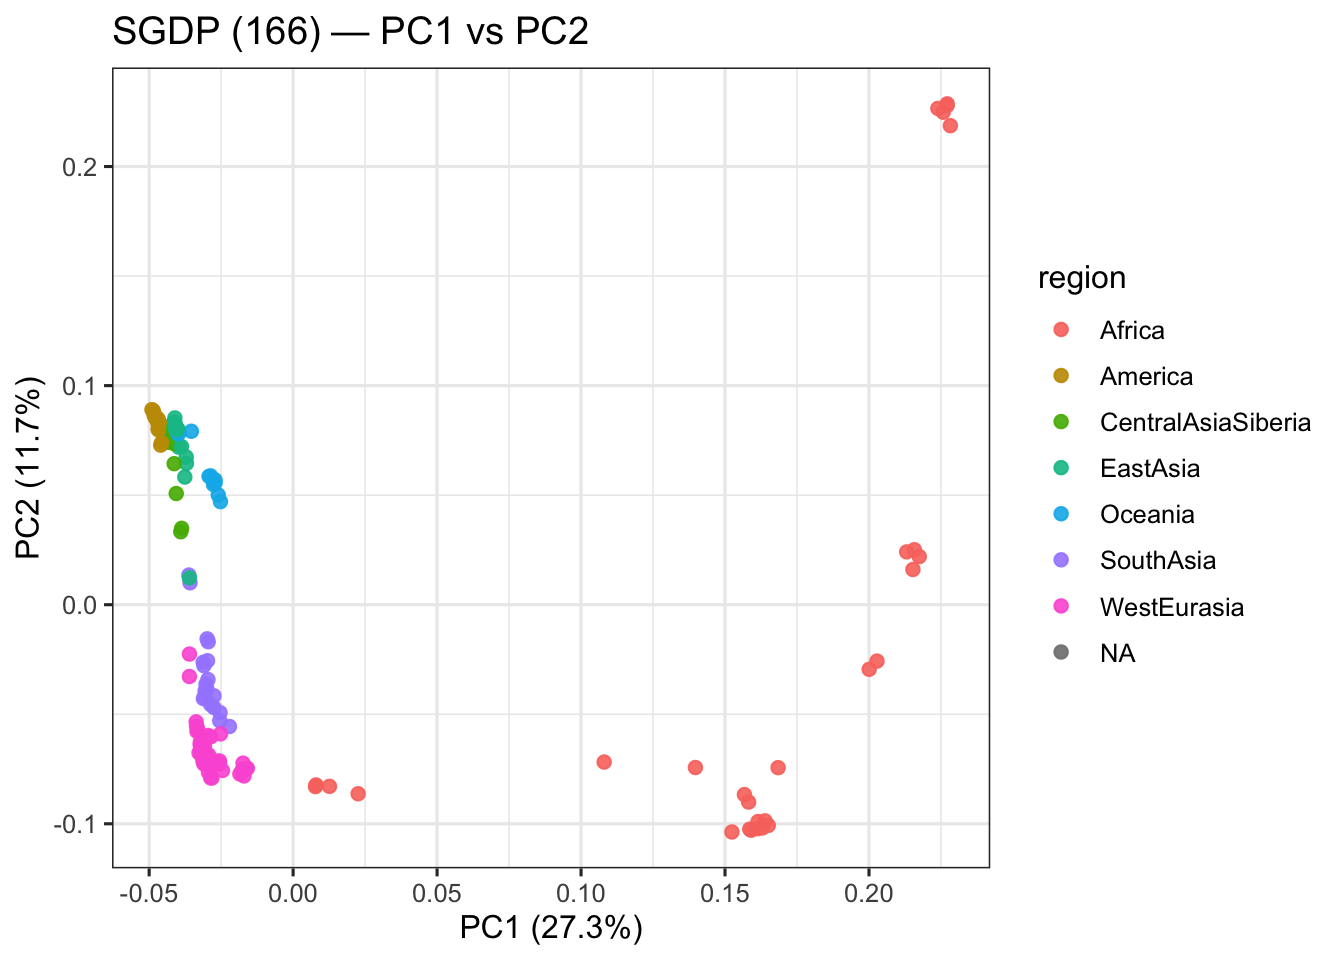
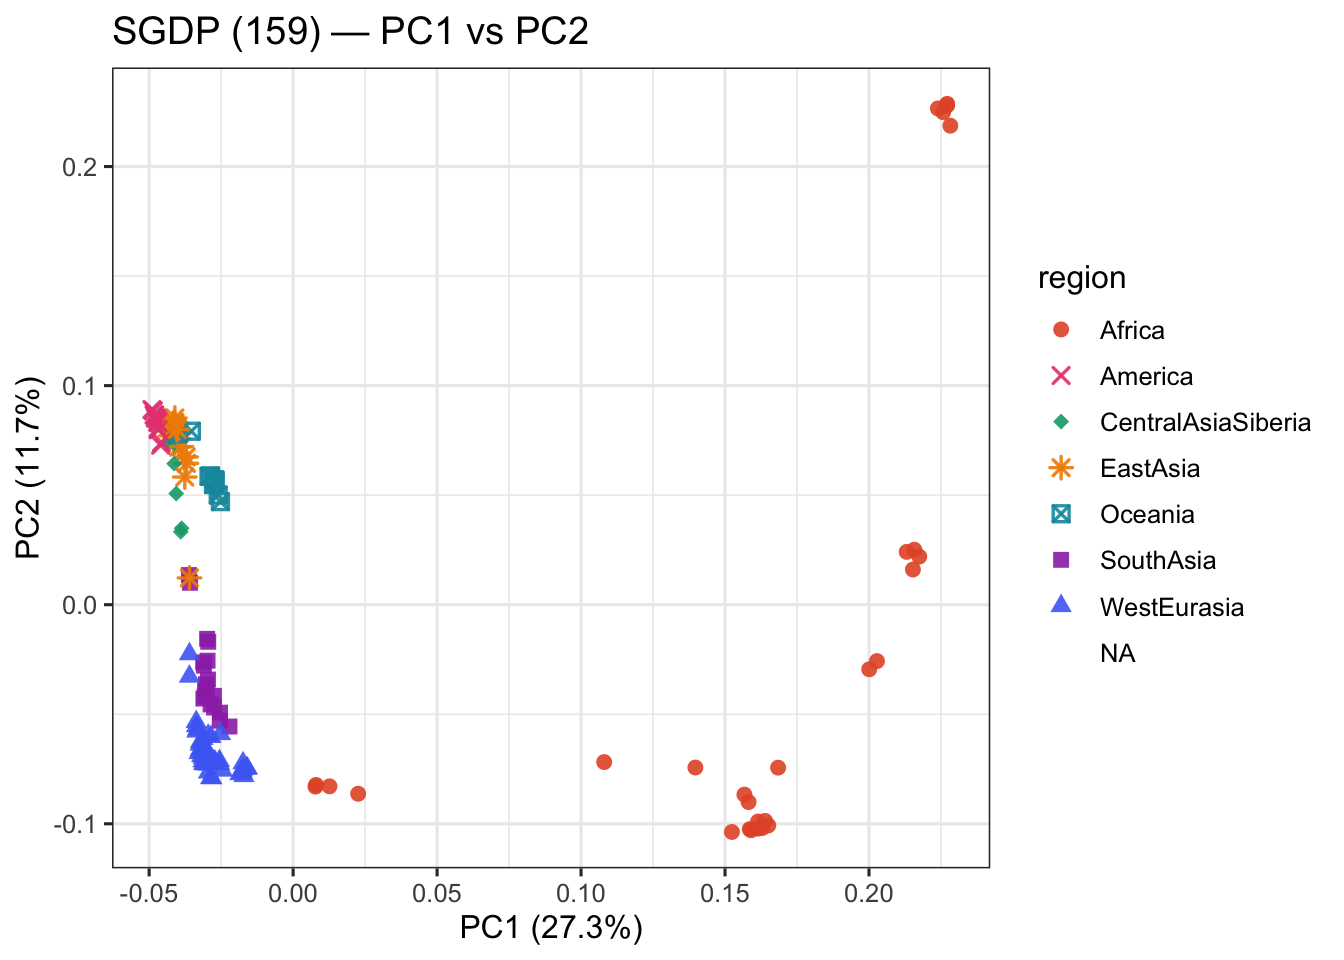
figs(B3): wider PCA (222 vs extended, all vs high-conf) + region SHAPES on all PCAs
Regions now coded by shape AND colour (shared plan/figures/_pca_style.R) so they're
distinguishable when colours are close (Tina's request). New 3-panel wider_pca.png
(222-panel vs extended-all vs high-confidence) -> plan page Fig 4. sgdp_reference_pca.qmd
+ Fig 0/Fig 2 re-rendered with shapes. Archaics marked with a distinct black marker.

diff --git a/plan/sepia-plan.html b/plan/sepia-plan.html
@@ -375,6 +375,14 @@
         </div>
       </div>
     </div>
+
+    <div class="item">
+      <div class="ihead"><span class="idt">Fig 4</span><h3>The wider pigmentation PCA — Lily's 222 vs the extended SNP set (B3) &nbsp;<span class="chip ok">realized</span></h3></div>
+      <div class="body">
+        <p><b class="lab what">What it shows:</b> the same 159 SGDP + 5 high-cov archaics, at correct hg19 coordinates, over three SNP sets — <strong>Lily's 222-panel</strong>, the <strong>extended set (all ~923 SNPs)</strong>, and <strong>high-confidence only (~350)</strong> — the gene-network integration ([<a href="snp_panel.html">SNP set</a>], <a href="#phase4">B1/B3</a>). All three recover the same continental structure; the extended and high-confidence sets sharpen the non-African clines, and the archaics (▽) fall together near the <em>African</em> end throughout. Regions are coded by <strong>colour and shape</strong> so they stay distinct. The 642 low-confidence single-GWAS SNPs move the picture only modestly — reassuring — which is exactly why we tagged them.</p>
+        <figure style="margin:12px 0 0;background:#fff;border:1px solid var(--line);border-radius:8px;padding:10px"><img src="figures/wider_pca.png" alt="Three-panel pigmentation PCA: 222-panel vs extended-all vs high-confidence, regions by colour and shape, archaics near the African end" style="width:100%;height:auto;display:block"><figcaption style="font-size:.72rem;color:#555;text-align:center;margin-top:6px;font-family:var(--mono)">222-panel (160) · extended all (923) · high-confidence (350) — 159 SGDP + 5 archaics</figcaption></figure>
+      </div>
+    </div>
   </section>
 
   <!-- PHASE 0 -->
